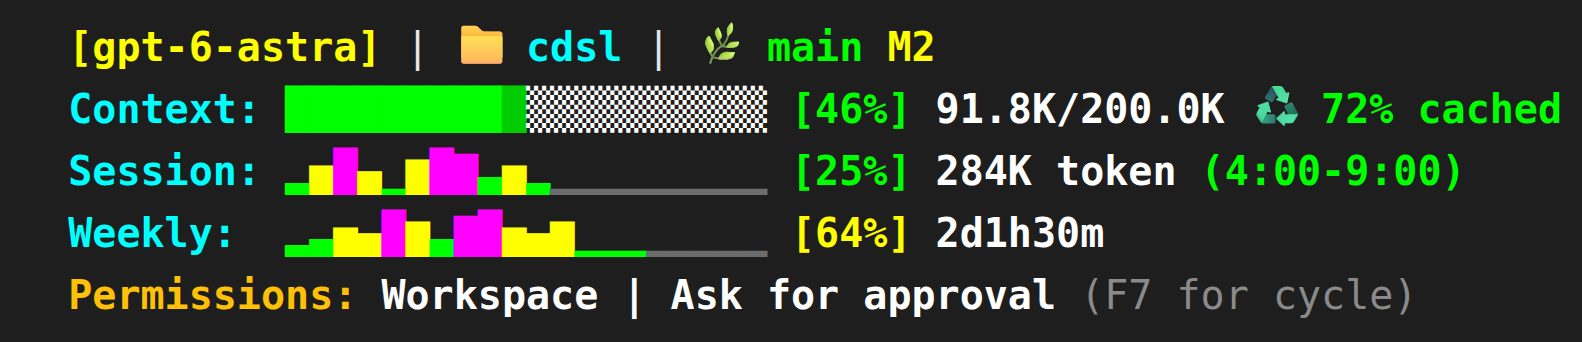
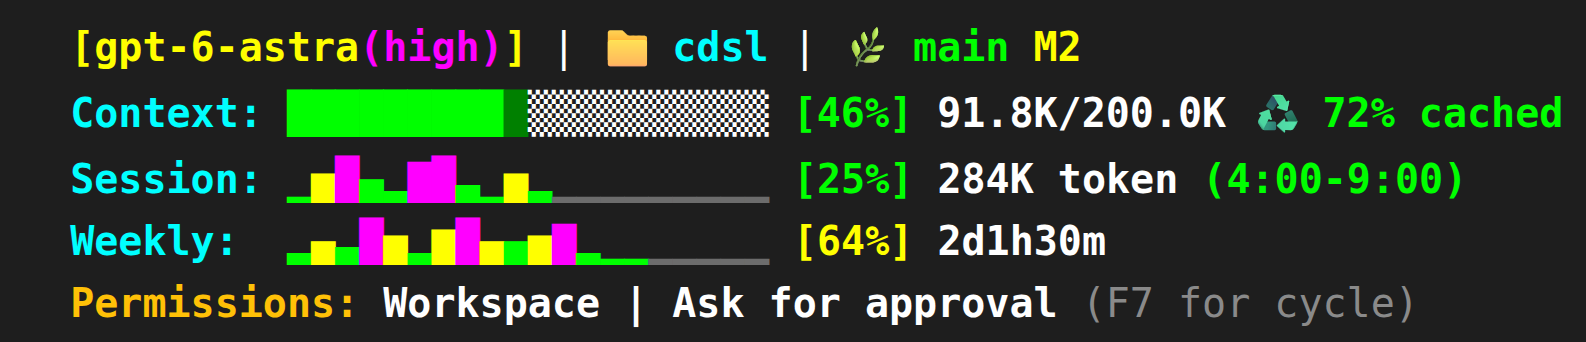
Codex上段のスクロールを修正しhigh付き表示画像を更新 (#9)

diff --git a/cdsl/launcher.py b/cdsl/launcher.py
@@ -52,6 +52,47 @@ def configure_clipboard(run_dir: Path) -> bool:
     return True
 
 
+def configure_scrolling(run_dir: Path) -> None:
+    """Enable mouse history browsing without making the status pane interactive."""
+    state = json.loads((run_dir / "started.json").read_text(encoding="utf-8"))
+    socket, session = state.get("socket"), state.get("session")
+    if not isinstance(socket, str) or not socket.startswith("cdsl-"):
+        raise ValueError("Could not identify the CDSL tmux server.")
+    if not isinstance(session, str) or not session.startswith("cdsl-"):
+        raise ValueError("Could not identify the CDSL session.")
+    mouse_or_mode = "#{||:#{pane_in_mode},#{mouse_any_flag}}"
+    handlers = {
+        "WheelUpPane": (f"if-shell -F -t = '{mouse_or_mode}' 'send-keys -M' "
+                        "'copy-mode -e -t =; send-keys -X -N 5 -t = scroll-up'"),
+        "WheelDownPane": "send-keys -M",
+        "MouseDown1Pane": "select-pane -t =; send-keys -M",
+        "MouseDown2Pane": (f"select-pane -t =; if-shell -F -t = '{mouse_or_mode}' "
+                           "'send-keys -M' 'paste-buffer -p'"),
+        "MouseDown3Pane": "send-keys -M",
+        "M-MouseDown3Pane": "send-keys -M",
+        "MouseDrag1Pane": (f"if-shell -F -t = '{mouse_or_mode}' 'send-keys -M' "
+                           "'copy-mode -M -t ='"),
+    }
+    for event, selection in (("DoubleClick1Pane", "select-word"),
+                             ("TripleClick1Pane", "select-line")):
+        handlers[event] = (
+            f"select-pane -t =; if-shell -F -t = '{mouse_or_mode}' 'send-keys -M' "
+            f"'copy-mode -H -t =; send-keys -X {selection}; "
+            "run-shell -d 0.3; send-keys -X copy-pipe-and-cancel'"
+        )
+    # The default tmux mouse bindings can focus, freeze, resize, or remove the status pane.
+    commands = [("bind-key", "-n", event, "if-shell", "-F", "-t", "=",
+                 "#{==:#{pane_index},0}", handler) for event, handler in handlers.items()]
+    commands.extend([
+        ("unbind-key", "-n", "MouseDrag1Border"),
+        ("set-option", "-t", session, "mouse", "on"),
+    ])
+    for arguments in commands:
+        result = _tmux(socket, *arguments, capture_output=True, text=True, timeout=5)
+        if result.returncode:
+            raise OSError(result.stderr.strip() or "Failed to configure mouse scrolling.")
+
+
 def finish_run(run_dir: Path, code: int) -> None:
     """Record the exit code and close only the session created by this launch."""
     try:
@@ -157,6 +198,7 @@ def run(codex_args: list[str], cwd: Path, codex_home: Path) -> int:
             result = _tmux(socket, *arguments, capture_output=True, text=True, timeout=10)
             if result.returncode:
                 raise RuntimeError(result.stderr.strip() or "Could not create the tmux status pane.")
+        configure_scrolling(run_dir)
         configure_clipboard(run_dir)
         (run_dir / "ready").touch()
         environment = os.environ.copy()

diff --git a/README.md b/README.md
@@ -6,7 +6,7 @@
 
 以下は表示例です。数値は合成サンプルです。全行の左端に半角スペース2つを付け、閉じ括弧と後続値の間は半角スペース1つです。使用率の数値は最低2桁幅に揃え、`[ 8%]`・`[10%]`・`[100%]`のように表示します。
 
-![CDSLの表示例（gpt-6-astra）](assets/statusline-preview.png)
+![CDSLの表示例：gpt-6-astra(high)、括弧を含むeffortはピンク色](assets/statusline-preview.png)
 
 ## 呼び出しの仕組み
 
@@ -21,6 +21,8 @@
 通常は1秒ごとに更新します。`/permissions`や権限切替ショートカットの変更直後に記録される`thread_settings_applied`を読み、次のプロンプトを待たずにPermissions行へ反映します。別スレッド所有の設定イベントは取り込みません。起動したプロセスが書き込み中の親会話を追跡し、子エージェントや読み取り用に開かれた履歴を除外します。会話切替中や候補が複数あるときは、別の会話を推測して表示しません。
 
 `codex exec`、`codex update`、ヘルプ、非TTY実行などは公式Codexへ引数をそのまま渡します。対話セッションでは、Codex標準のstatuslineを起動引数で非表示にします。ユーザーが後から渡した同じ設定の引数が優先されます。
+
+上段のCodex画面は、マウスホイールやトラックパッドで履歴をスクロールできます。履歴表示から入力へ戻るには、最下部までスクロールするか、`q`または`Esc`を押します。下段のCDSLは固定表示です。端末本来の文字選択を使う場合は、端末の設定に応じて`Shift`を押しながらドラッグしてください。
 
 ## 対応環境
 

diff --git a/README.en.md b/README.en.md
@@ -6,7 +6,7 @@ CDSL adds a CCSL-inspired status display when you run `codex`. It keeps the mode
 
 The values below are synthetic examples. Each row starts with two spaces, and one space separates the closing bracket from the next value. Percentage numbers use a minimum width of two characters: `[ 8%]`, `[10%]`, and `[100%]`.
 
-![CDSL status display with gpt-6-astra](assets/statusline-preview.png)
+![CDSL status display with gpt-6-astra(high), with effort and its parentheses in pink](assets/statusline-preview.png)
 
 ## How it works
 
@@ -21,6 +21,8 @@ The status process reads the active conversation's local log, Git information, a
 CDSL normally refreshes once per second. It reads the `thread_settings_applied` event recorded immediately after a permission change, so the Permissions row updates without another prompt. Events owned by another thread are ignored. CDSL follows the root conversation being written by the process it launched, excluding subagents and history files opened only for reading. It waits when the conversation is switching or multiple candidates exist.
 
 Commands such as `codex exec`, `codex update`, help, and non-TTY invocations pass their arguments directly to official Codex. For interactive sessions, CDSL disables the native status line through a startup argument. An explicit setting supplied later in the user's arguments takes precedence.
+
+The upper Codex pane supports scrolling through history with the mouse wheel or trackpad. Scroll back to the bottom, or press `q` or `Esc`, to leave history and return to input. The lower CDSL pane stays fixed. To use your terminal's own text selection, hold `Shift` while dragging if your terminal supports it.
 
 ## Requirements
 
